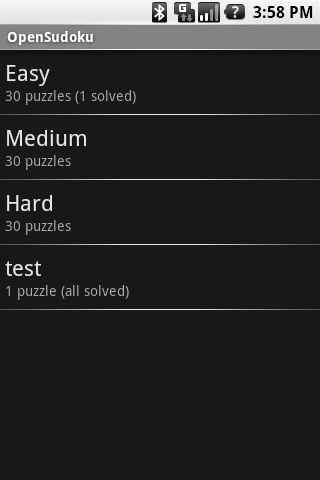
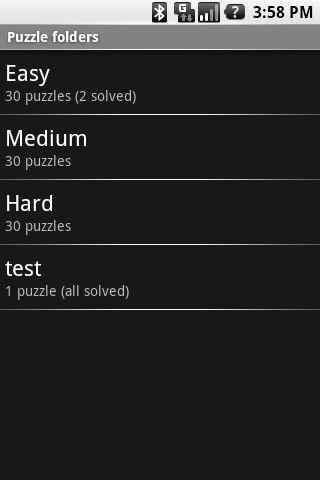
Bug fixes, new screenshots.

diff --git a/OpenSudoku/src/cz/romario/opensudoku/gui/SudokuBoardView.java b/OpenSudoku/src/cz/romario/opensudoku/gui/SudokuBoardView.java
@@ -247,8 +247,9 @@ public class SudokuBoardView extends View {
 		}
 		
 		// draw vertical lines
-		for (int x=0; x < width; x = x + cellWidth) {
-			if (x % 3 == 0) {
+		for (int c=0; c < 9; c++) {
+			int x = c * cellWidth;
+			if (c % 3 == 0) {
 				canvas.drawRect(x-1, 0, x+1, height, linePaint);
 			} else {
 				canvas.drawLine(x, 0, x, height, linePaint);
@@ -256,8 +257,9 @@ public class SudokuBoardView extends View {
 		}
 		
 		// draw horizontal lines
-		for (int y=0; y < height; y = y + cellHeight) {
-			if (y % 3 == 0) {
+		for (int r=0; r < 9; r++) {
+			int y = r * cellHeight;
+			if (r % 3 == 0) {
 				canvas.drawRect(0, y-1, width, y+1, linePaint);
 			} else {
 				canvas.drawLine(0, y, width, y, linePaint);

diff --git a/OpenSudoku/src/cz/romario/opensudoku/gui/FolderListActivity.java b/OpenSudoku/src/cz/romario/opensudoku/gui/FolderListActivity.java
@@ -47,6 +47,8 @@ public class FolderListActivity extends ListActivity {
 		// TODO Auto-generated method stub
 		super.onCreate(savedInstanceState);
 		
+		setTitle("Puzzle folders");
+		
 		setDefaultKeyMode(DEFAULT_KEYS_SHORTCUT);
 		
         // Inform the list we provide context menus for items
